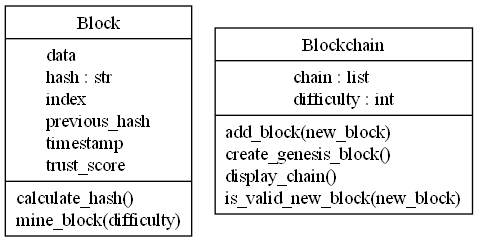
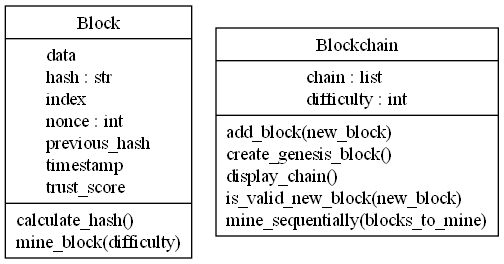
update blockchain class

Changed region(s): [[0.0, 0.0, 0.9958, 0.9835]]

diff --git a/architecture/blockchain.py b/architecture/blockchain.py
@@ -35,6 +35,15 @@ class Blockchain:
         # If all checks pass, return True
         return True
 
+    def mine_sequentially(self, blocks_to_mine):
+        """
+        Mine multiple blocks sequentially and add them to the blockchain.
+        """
+        for block in blocks_to_mine:
+            # Assign the correct previous_hash before mining
+            block.previous_hash = self.chain[-1].hash
+            self.add_block(block)
+
     def display_chain(self):
         """Display the blockchain."""
         for block in self.chain:
@@ -70,13 +79,3 @@ class Block:
             self.hash = self.calculate_hash()
 
         print(f"Block mined with nonce: {self.nonce}")
-
-
-def mine_sequentially(blockchain, blocks_to_mine):
-    """
-    Mine multiple blocks sequentially and add them to the blockchain.
-    """
-    for block in blocks_to_mine:
-        # Assign the correct previous_hash before mining
-        block.previous_hash = blockchain.chain[-1].hash
-        blockchain.add_block(block)

diff --git a/evaluation.py b/evaluation.py
@@ -148,7 +148,7 @@ def run_simulation(N):
         blocks_to_mine.append(new_block)
     
     # Mine and add blocks in parallel
-    bc.mine_sequentially(blockchain, blocks_to_mine)
+    blockchain.mine_sequentially(blocks_to_mine)
     
     end = time.time()
     elapsed = end - start

diff --git a/demo.py b/demo.py
@@ -106,7 +106,7 @@ for i in range(N):
     blocks_to_mine.append(new_block)
 
 # Mine and add blocks in parallel
-bc.mine_sequentially(blockchain, blocks_to_mine)
+blockchain.mine_sequentially(blocks_to_mine)
 
 
 # Display the blockchain
